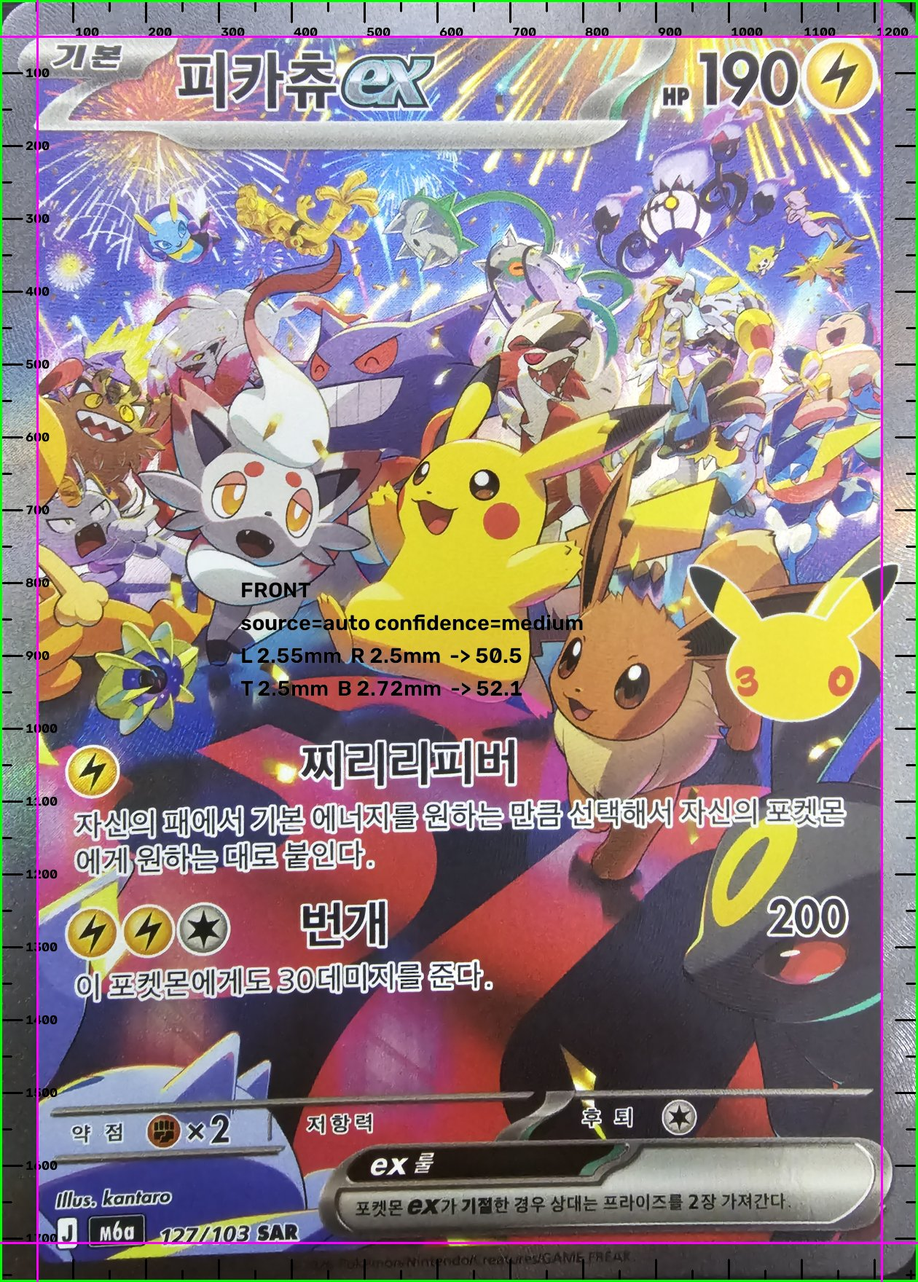
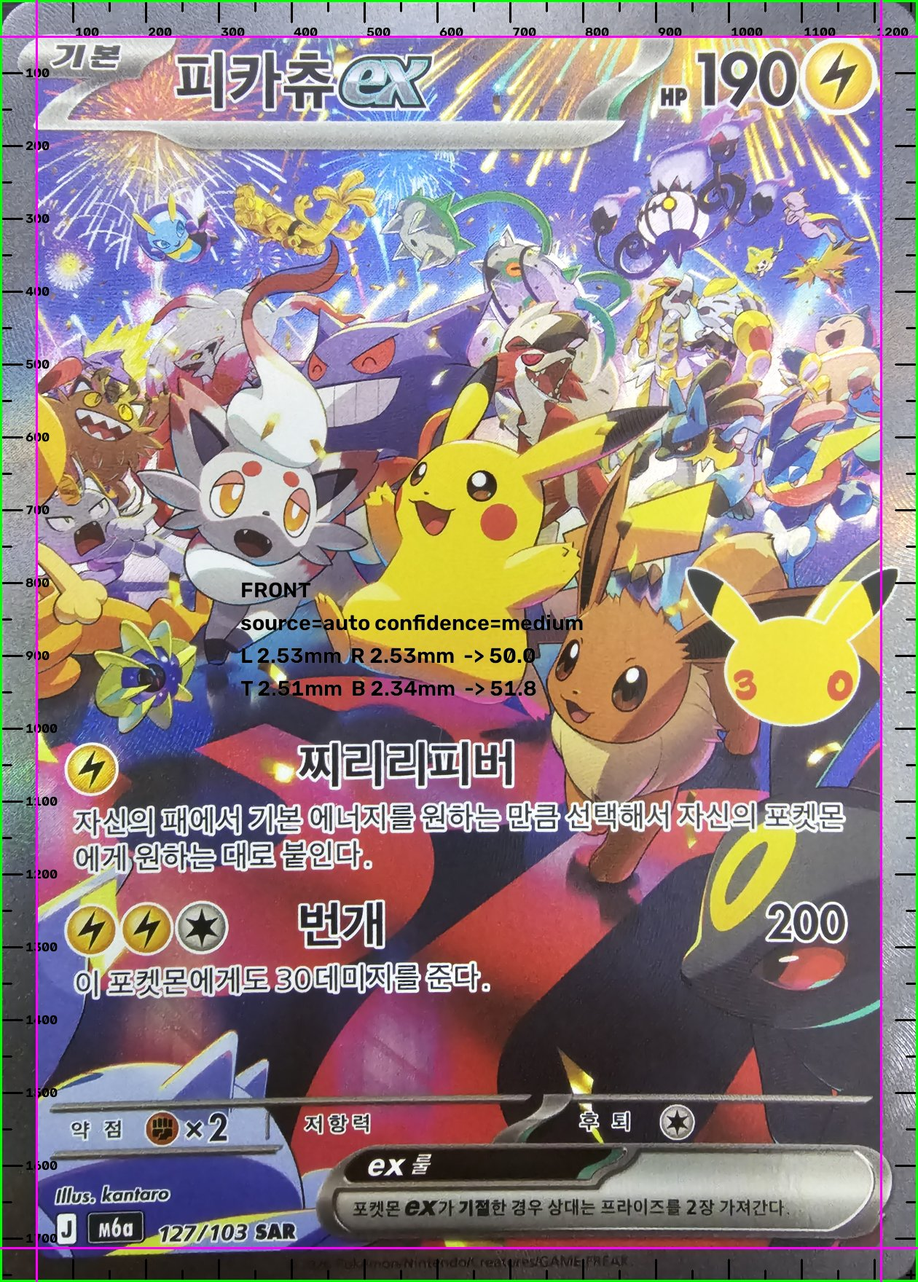
피카츄ex SAR 127 6번 앞면 오른쪽 아래 꼭짓점 바로잡음(비스듬하게 펴지던 문제)
Claude-Session: https://claude.ai/code/session_01RBaUrtCQrJRBZVyGNXAgRs

Changed region(s): [[0.0, 0.0, 1.0, 1.0]]

diff --git a/cards.js b/cards.js
@@ -1,5 +1,5 @@
 window.CARD_DATA = {
- "generated": "2026-11-24 20:15",
+ "generated": "2026-11-24 20:36",
  "decks": [
   {
    "name": "내 덱",
@@ -728,15 +728,15 @@ window.CARD_DATA = {
        "reprint": false,
        "centering": {
         "front": {
-         "lr_text": "50.5/49.5 (좌/우)",
-         "tb_text": "47.9/52.1 (상/하)",
-         "ratio_lr": 50.5,
-         "ratio_tb": 52.1,
+         "lr_text": "50.0/50.0 (좌/우)",
+         "tb_text": "51.8/48.2 (상/하)",
+         "ratio_lr": 50.0,
+         "ratio_tb": 51.8,
          "border_mm": {
-          "left": 2.55,
-          "top": 2.5,
-          "right": 2.5,
-          "bottom": 2.72
+          "left": 2.53,
+          "top": 2.51,
+          "right": 2.53,
+          "bottom": 2.34
          },
          "confidence": "medium",
          "source": "auto",
@@ -781,7 +781,9 @@ window.CARD_DATA = {
           "grade": "Gem Mint 10",
           "limited_by": "front tb",
           "verified": true,
-          "near_boundary": []
+          "near_boundary": [
+           "front tb 51.8 — Pristine 10 기준 51까지 0.8%p 차이"
+          ]
          },
          "bgs": {
           "name": "BGS (센터링 서브그레이드)",
@@ -909,7 +911,7 @@ window.CARD_DATA = {
            "kind": "reflection",
            "side": "br",
            "x": 100.0,
-           "y": 97.95,
+           "y": 98.63,
            "r": 3.44,
            "text": "오른쪽 아래 모서리: 배경 천의 결이 카드 가장자리에 붙어 잡혀서 모양을 판정할 수 없어요. 무늬 없는 천 위에서 다시 찍거나 루페로 확인하세요"
           },
@@ -917,8 +919,8 @@ window.CARD_DATA = {
            "id": "R3",
            "kind": "reflection",
            "side": "bl",
-           "x": 6.25,
-           "y": 96.88,
+           "x": 6.21,
+           "y": 96.54,
            "r": 3.44,
            "text": "왼쪽 아래 모서리: 배경 천의 결이 카드 가장자리에 붙어 잡혀서 모양을 판정할 수 없어요. 무늬 없는 천 위에서 다시 찍거나 루페로 확인하세요"
           }
